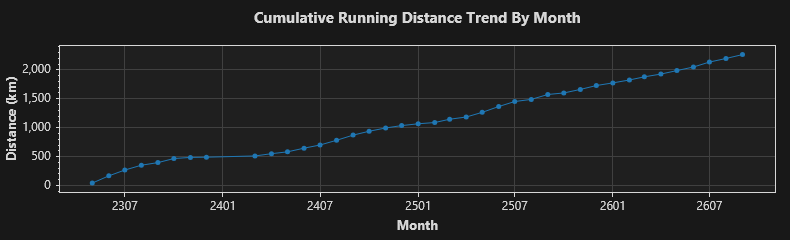
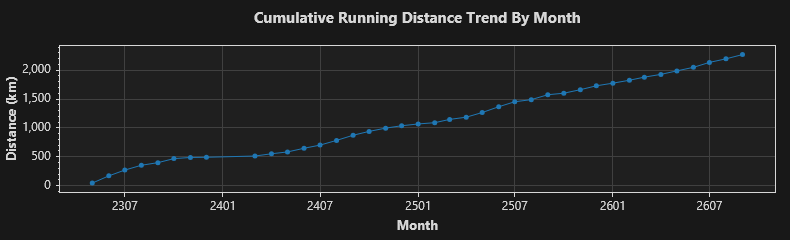
2026/9/24 跑步 6.10 公里

diff --git a/trend.md b/trend.md
@@ -1,4 +1,4 @@
-### Total: 384 days, 2263.7800000000002000888343900 km.
+### Total: 385 days, 2269.8800000000001091393642128 km.
 
 
 ![Monthly](https://github.com/prime167/MyRunningLog/blob/main/data/CumulativeTrendByMonth.png)
